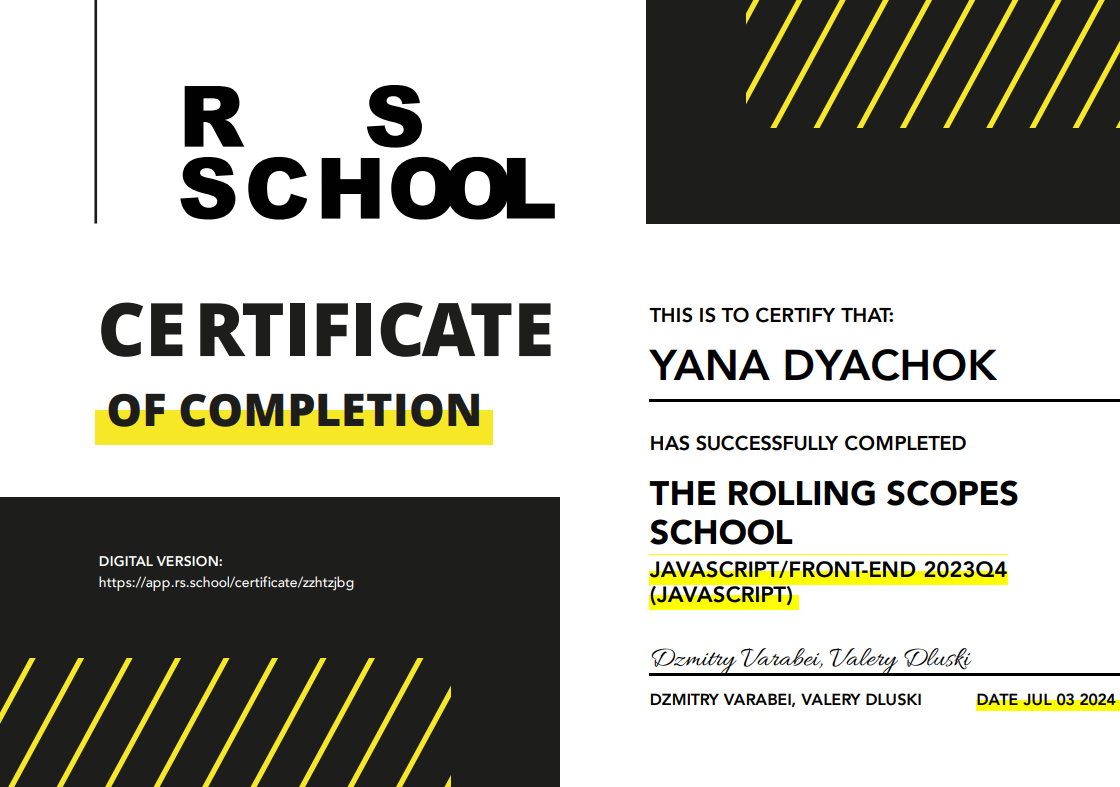
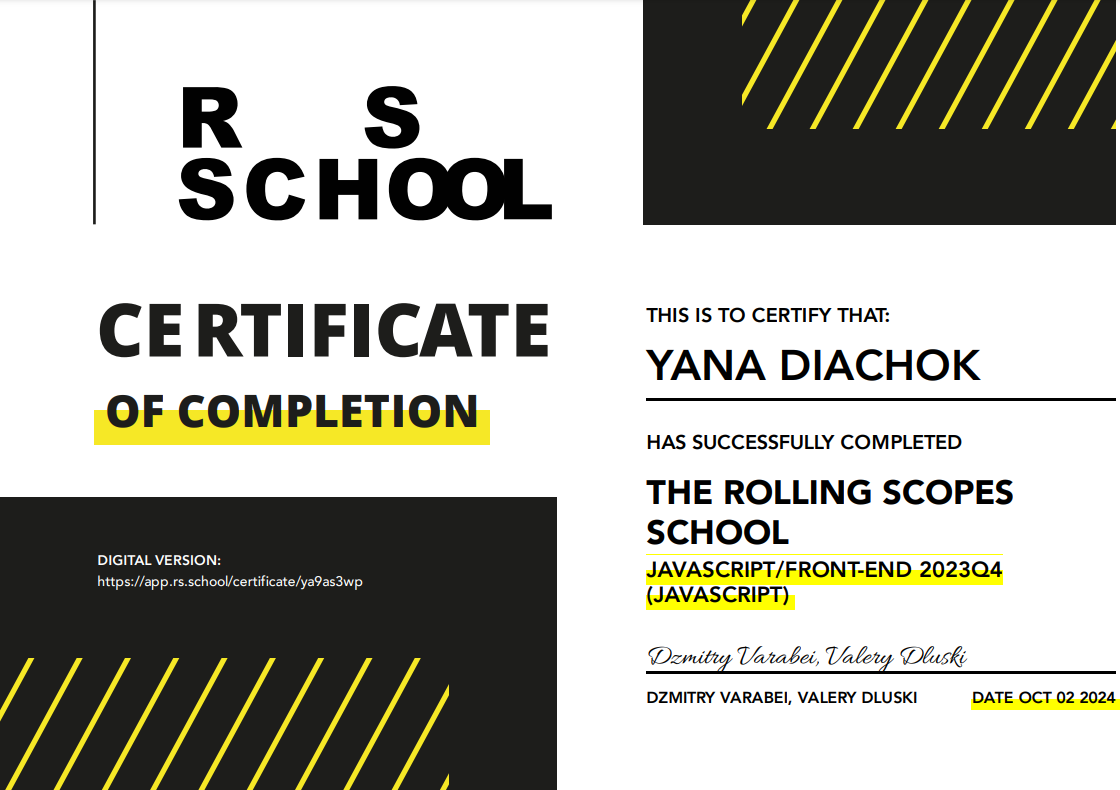
fix: change certificate

diff --git a/README.md b/README.md
@@ -54,7 +54,7 @@ Battleship-game                  |   [Battleship-game](https://github.com/Yana-D
  #### <img width="648" style="max-width: 100%; height: auto;" alt="rss-js0" src="./img/certificates/react.png"> 
  📜<a href="https://app.rs.school/certificate/qwbdssph" target="_blank">React</a>
  #### <img width="648" style="max-width: 100%; height: auto;" alt="rss-js2" src="./img/certificates/s2.png">
- 📜 <a href="https://app.rs.school/certificate/zzhtzjbg" target="_blank">JavaScript/Front-end</a>
+ 📜 <a href="https://app.rs.school/certificate/ya9as3wp" target="_blank">JavaScript/Front-end</a>
  #### <img width="648" style="max-width: 100%; height: auto;" alt="rss-react" src="./img/certificates/s0.png">
  📜<a href="https://app.rs.school/certificate/oxumcm62" target="_blank">JS/FE Pre-School</a>
  #### <img width="648" style="max-width: 100%; height: auto;" alt="english" src="./img/certificates/photo_2021-12-24_12-05-49.jpg">
